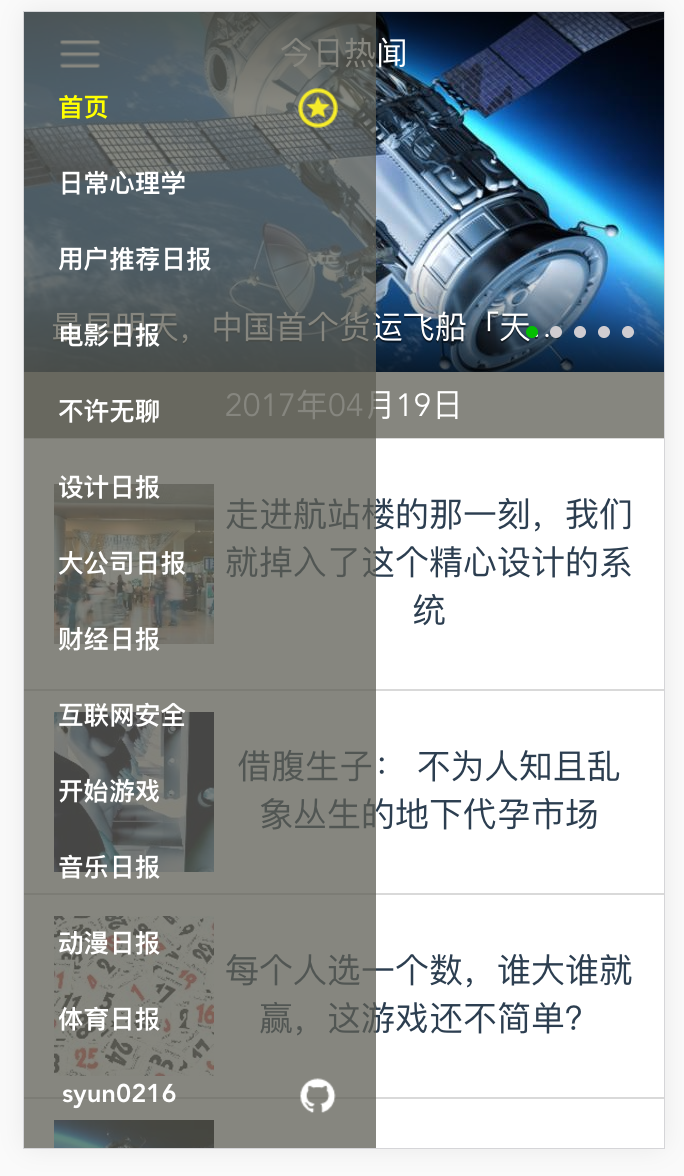
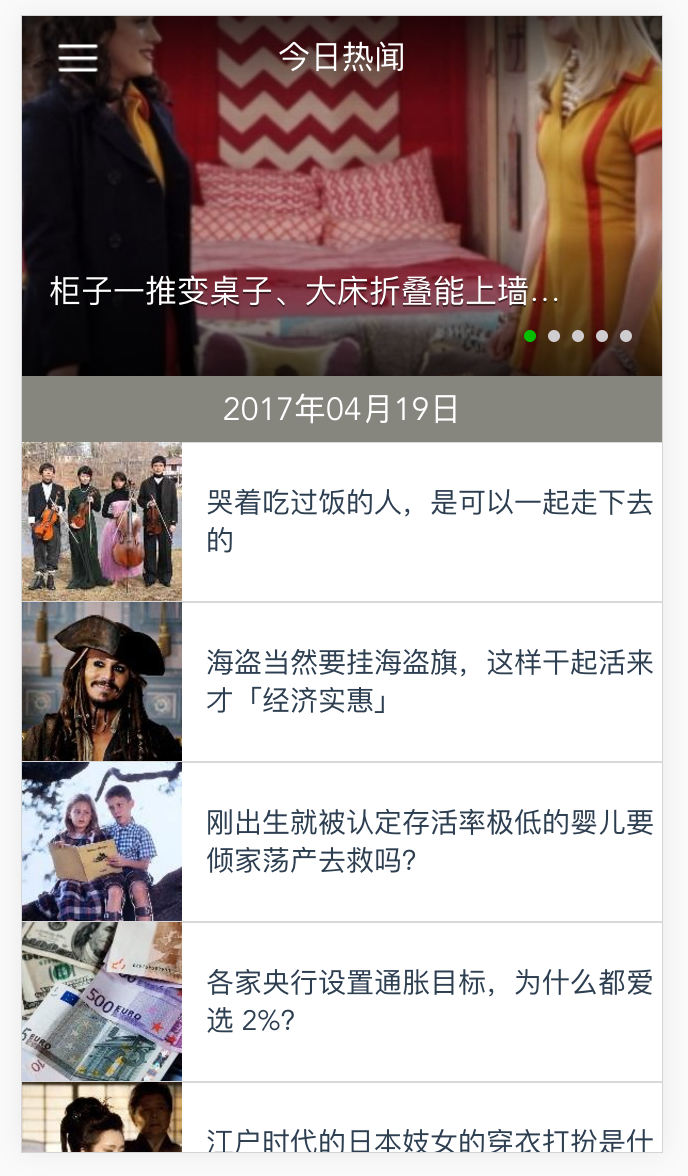
change ui

diff --git a/src/views/Con.vue b/src/views/Con.vue
@@ -1,10 +1,11 @@
 <template lang="html">
   <div class="">
     <v-loading v-if="isLoading"></v-loading>
-    <v-title-bar v-if="newsContent != null" :content="topTitle" :shareUrl="newsContent.share_url"></v-title-bar>
+    <v-title-bar v-if="newsContent != null" :content="newsContent.image_source" :shareUrl="newsContent.share_url" :backFunc="clickBack"></v-title-bar>
     <!-- <v-content v-if="newsContent != null"> -->
       <div class="img_div" v-if="newsContent != null">
         <img :src="'http://read.html5.qq.com/image?src=forum&q=5&r=0&imgflag=7&imageUrl='+newsContent.image" alt="">
+        <h3>{{newsContent.title}}</h3>
       </div>
       <div v-html="newsContent.body" v-if="newsContent != null">
       </div>
@@ -16,41 +17,47 @@
 <script>
 import api from './../api/index';
 export default {
-  data(){
+  data() {
     return {
-      newsContent:null,
-      topTitle:null,
-      requestData:{id:null},
-      isLoading:false,
-      isError:false
+      newsContent: null,
+      requestData: {
+        id: null
+      },
+      isLoading: false,
+      isError: false,
+      linkcss: null
     }
   },
-  methods:{
-    getNewsById(id){
+  methods: {
+    getNewsById(id) {
       this.isLoading = true;
       this.isError = false;
       let _this = this;
-      api.getNewsById(id).then(function(data){
+      api.getNewsById(id).then(function(data) {
         _this.newsContent = data.data;
-        console.log(_this.newsContent);
-        if(_this.newsContent.css.length != 0 && _this.newsContent.css[0] != null){
+        if (_this.newsContent.css.length != 0 && _this.newsContent.css[0] != null) {
           let _link = document.createElement("link");
-          _link.setAttribute("rel","stylesheet");
-          _link.setAttribute("type","text/css");
-          _link.setAttribute("href",_this.newsContent.css[0]);
+          _link.setAttribute("rel", "stylesheet");
+          _link.setAttribute("type", "text/css");
+          _link.setAttribute("href", _this.newsContent.css[0]);
+          _this.linkcss = _link;
           let _headTag = document.getElementsByTagName("head")[0];
           _headTag.appendChild(_link);
         }
         _this.isLoading = false;
-        _this.newsContent.body = _this.newsContent.body.replace(/src=\"/g,"src=\"http://read.html5.qq.com/image?src=forum&q=5&r=0&imgflag=7&imageUrl=");
-        _this.topTitle = _this.newsContent.title.length > 10 ? _this.newsContent.title.substring(0,10)+"..." : _this.newsContent.title;
-      },function(){
+        _this.newsContent.body = _this.newsContent.body.replace(/src=\"/g, "src=\"http://read.html5.qq.com/image?src=forum&q=5&r=0&imgflag=7&imageUrl=");
+      }, function() {
         _this.isLoading = false;
         _this.isError = true;
       })
+    },
+    clickBack(){
+      let _headTag = document.getElementsByTagName("head")[0];
+      _headTag.removeChild(this.linkcss);
+      this.$router.go(-1);
     }
   },
-  created(){
+  mounted() {
     this.requestData.id = this.$route.query.id;
     this.getNewsById(this.$route.query.id);
   }
@@ -58,13 +65,22 @@ export default {
 </script>
 
 <style lang="less">
-  .img_div{
+.img_div {
     width: 100%;
-    img{
-      width:100%;
+    position: relative;
+    img {
+        width: 100%;
     }
-  }
-  .headline .img-place-holder{
+    h3 {
+      position: absolute;
+      bottom:0;
+      padding:0 5px;
+      color:white;
+      font-size:20px;
+      font-family: "微软雅黑";
+      }
+}
+.headline .img-place-holder {
     height: 0 !important;
-  }
+}
 </style>

diff --git a/src/components/titlebar.vue b/src/components/titlebar.vue
@@ -1,7 +1,7 @@
 <template lang="html">
   <div class="title">
     <span v-if="canBack" class="back" @click="goBack"><img src="./../assets/back.png" alt="返回按钮"></span>
-    <span class="content">{{content}}</span>
+    <span class="t_content">{{content}}</span>
     <span v-if="shareUrl != null" class="share"><img src="./../assets/share.png" alt="" @click="goShare()"></span>
   </div>
 </template>
@@ -21,11 +21,20 @@ export default {
     shareUrl:{
       type:String,
       default:null
+    },
+    backFunc:{
+      type:Function,
+      default:null
     }
   },
   methods:{
     goBack(){
-      this.$router.go(-1);
+      if(this.$props.backFunc == null){
+          this.$router.go(-1);
+      }
+      else{
+        this.$props.backFunc();
+      }
     },
     goShare(){
       if(this.shareUrl){
@@ -33,8 +42,8 @@ export default {
       }
     }
   },
-  created(){
-
+  mounted(){
+    console.log(this.$props);
   }
 
 }
@@ -46,17 +55,17 @@ export default {
   top:0;
   left: 0;
   width:100%;
-  height: 40px;
-  border:1px solid #ddd;
+  height: 55px;
   z-index: 999;
-  background: white;
+  color:white;
+  background-image: linear-gradient(0deg, rgba(0,0,0,0.00) 0%, rgba(0,0,0,0.6) 95%);
   .back{
     width:15px;
     img{
-      width:30px;
+      width:22px;
       position: absolute;
       left: 8px;
-      top:4px;
+      top:7px;
     }
   }
   .share{
@@ -67,10 +76,11 @@ export default {
       top:7px;
     }
   }
-  .content{
+  .t_content{
     display:inline-block;
     margin-top: 8px;
     font-size:16px;
+    color:white;
   }
 }
 </style>

diff --git a/src/components/bottomloadingerror.vue b/src/components/bottomloadingerror.vue
@@ -1,11 +1,13 @@
 <template lang="html">
-  <group style="border:none">
+  <!-- <group style="border:none">
       <cell v-if="isShow" @click.native="reload" title="加载失败,请点击重试..."></Cell>
-  </group>
+  </group> -->
+  <div class="bottomLoading" v-if="isShow" @click="reload">
+    <p>加载失败,请点击重试...</p>
+  </div>
 </template>
 
 <script>
-import {Cell,Group} from 'vux'
 export default {
   data(){
     return {
@@ -13,8 +15,6 @@ export default {
     }
   },
   components:{
-    Cell,
-    Group
   },
   props:{
     isShow:{
@@ -30,4 +30,11 @@ export default {
 </script>
 
 <style lang="less">
+  .bottomLoading{
+    text-align: center;
+    background:white;
+    p{
+      padding:10px 0;
+    }
+  }
 </style>

diff --git a/src/views/Home.vue b/src/views/Home.vue
@@ -87,7 +87,7 @@ export default {
     },
     getDate(count){
       var _date = new Date();
-      _date.setDate(_date.getDate() - count);
+      _date.setDate(_date.getDate() + 1 - count);
       let _year = _date.getFullYear();
       let _month = (_date.getMonth() + 1) < 10 ? "0" +(_date.getMonth() + 1) : _date.getDate() + 1;
       let _day = (_date.getDate() + 1) < 10 ? "0"+(_date.getDate() + 1) : _date.getDate() + 1;
@@ -111,7 +111,7 @@ export default {
   background: rgba(93, 93, 84, 0.75);
   color:white;
 }
-// .vux-swiper-desc{
-//   padding: 20px 50px 32px 13px !important;
-// }
+.vux-swiper-desc{
+  padding: 20px 50px 32px 13px !important;
+}
 </style>

diff --git a/src/App.vue b/src/App.vue
@@ -1,6 +1,6 @@
 <template>
   <div id="app">
-    <v-slidebar></v-slidebar>
+    <v-slidebar v-if="isSlideBarShow"></v-slidebar>
     <transition :name="transitionName">
         <router-view></router-view>
     </transition>
@@ -12,12 +12,14 @@ export default {
   name: 'app',
   data(){
     return {
-        transitionName: 'slide-left'
+        transitionName: 'slide-left',
+        isSlideBarShow:true
     }
   },
-  '$route' (to, from) {
+  watch:{'$route' (to, from) {
     this.transitionName = to.path != "/con" ? 'slide-right' : 'slide-left';
-    console.log(this.transitionName);
+    this.isSlideBarShow = !(to.path == "/con");
+  }
   }
 }
 </script>

diff --git a/src/components/slidebar.vue b/src/components/slidebar.vue
@@ -2,7 +2,7 @@
   <div>
     <div class="header">
       <img src="./../assets/menu.png" alt="菜单按钮" @click="toggle()">
-      <p>{{titleName}}</p>
+      <p class="p_title">{{titleName}}</p>
     </div>
     <div class="aside" :class="{open:open,docked:docked}" @click="toggle()" v-if="themeData != null">
       <ul>
@@ -81,7 +81,7 @@ export default {
       top:20%;
       left: 5%;
     }
-    p{
+    .p_title{
       text-align: center;
       color:white;
       margin: 9px;

diff --git a/src/api/index.js b/src/api/index.js
@@ -18,7 +18,7 @@ export default {
 	},
 	getNewsById( id ) {
 		return axios.get( NewsIdResource + id ,{
-			timeout:4500
+			// timeout:4500
 		})
 	},
 	getNewsByDate( date ) {
@@ -40,7 +40,7 @@ export default {
 	},
 	getTopicsById( topicid ) {
 		return axios.get( TopicsIdResource + topicid ,{
-			timeout:4500
+			// timeout:4500
 		})
 	},
 	getSections() {

diff --git a/src/components/loading.vue b/src/components/loading.vue
@@ -1,5 +1,5 @@
 <template lang="html">
-  <div class="loading">
+  <div class="d_loading">
     <div class="spinner">
       <spinner type="ios-small" slot="value"></spinner>
     </div>
@@ -17,7 +17,7 @@ export default {
 </script>
 
 <style lang="less">
-.loading{
+.d_loading{
   position:fixed;
   width: 100%;
   height: 100%;
